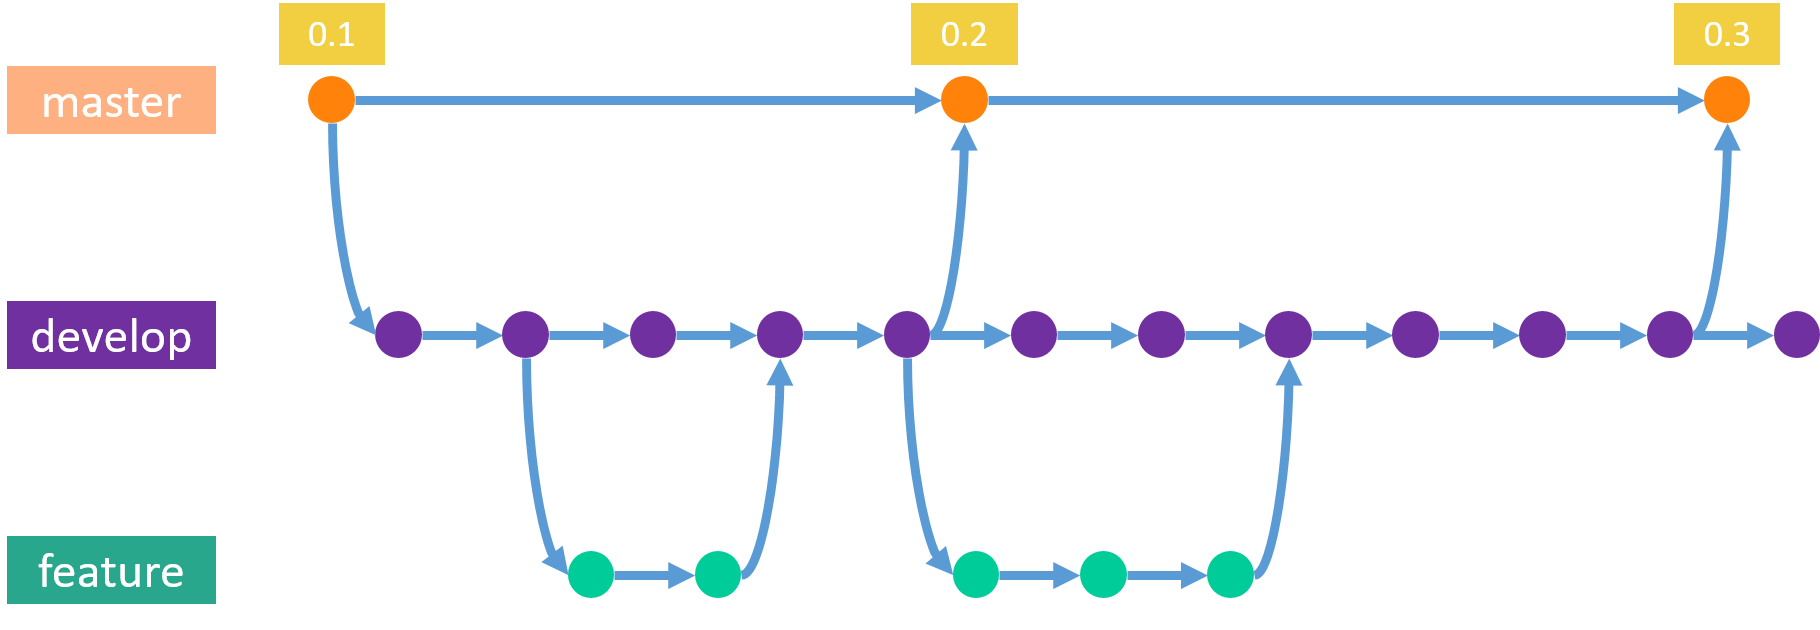
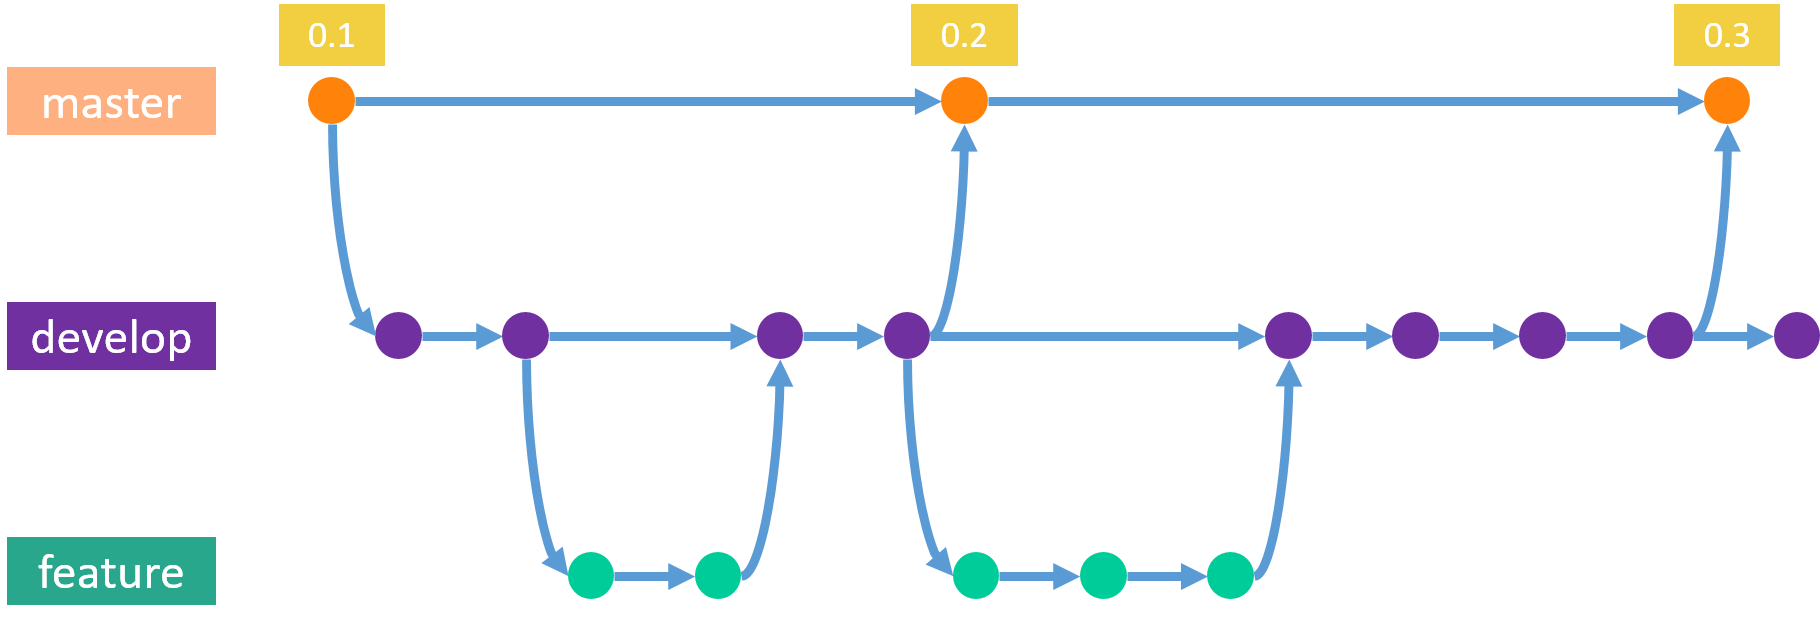
some minor corrections

diff --git a/presentation.md b/presentation.md
@@ -479,13 +479,13 @@ Tracks the history of the code on line 42 - 50 in your file. Shows you e.g. how 
 ## Comparing your branches
 
 ```
-$ git <since>..<until>
+$ git log <since>..<until>
 ```
 Allows you to show commits in a range between two _commit references_.
 
 This is especially great to compare branches:
 ```
-$ git master..feature
+$ git log master..feature
 ```
 Shows you the commits which are in the feature branch, but not in the master branch.
 
@@ -785,12 +785,11 @@ vs
 
 ]
 
-```
-$ git checkout master
-$ git merge feature
-```
-
 ???
+
+TODO: The graphic in this slide is wrong
+feature is at the wrong place
+master would get fastforwarded to E 
 
 * Let's say you wanted to merge master into feature first
   * to sync them
@@ -920,15 +919,18 @@ class: center, middle
 # Centralized Workflow
 ## A good start
 
+Git can be used similar to a centralized VCS:
 * One central repository
 * Only one development branch `master`
 * Devs clone the central repository
 * They make local commits etc.
 * Changes are rebased onto `origin/master`, then pushed
 
+To keep history linear, always pull with
 ```
 $ git pull --rebase origin master
 ```
+.addendum[You want to "add your changes to what they already did"]
 
 ---
 
@@ -937,6 +939,9 @@ $ git pull --rebase origin master
 
 .full-width[![image](img/centralized_workflow_1.png)]
 
+???
+initial state, we just cloned the central repository
+repository has only a master branch
 ---
 
 # Centralized Workflow
@@ -944,6 +949,11 @@ $ git pull --rebase origin master
 
 .full-width[![image](img/centralized_workflow_2.png)]
 
+???
+Some work was done on the master in the central repository
+We fetched those, they are reflected on origin/master
+
+meanwhile, we also did some local work ourselves
 ---
 
 # Centralized Workflow
@@ -951,12 +961,20 @@ $ git pull --rebase origin master
 
 .full-width[![image](img/centralized_workflow_3.png)]
 
+???
+instead of merging into origin/master, we rebase our work on it.
+
+the last two steps can be achieved with `git pull --rebase`
+
 ---
 
 # Centralized Workflow
 ## Example
 
 .full-width[![image](img/centralized_workflow_4.png)]
+
+???
+when we push, master will be fast forwarded
 
 ---
 
@@ -999,6 +1017,10 @@ One of the most important workflows
 Feature branches can be pushed anytime
   * so you get a backup for free
   * makes it easy to share code
+
+Pull requests make code reviews convenient
+  * you can look at the feature as a whole (by diffing it to `master`)
+  * anybody, e.g. the reviewer, can merge it when done, not only the dev who created it
 
 ---
 
@@ -1108,6 +1130,8 @@ $ git merge --no-ff myFeature
 The interaction between develop and feature branches is just the feature branches workflow described before
 Note: Feature branches can also 'skip' a version, no problem
 
+The no-ff part is critizised by some, rebasing is an alternative
+
 ---
 
 # GitFlow
@@ -1170,8 +1194,8 @@ On a developer level .addendum[(the Open Source approach)]
 
 On a supplier level
   * Project team works on the official repository
-  * Suppliers have their forks,no write-access to offical repository
-  * Project team pulls work from Suppliers after reviewing them
+  * Suppliers have their forks, no write-access to offical repository
+  * Project team pulls work from suppliers after reviewing them
 
 .fixed-height-300.center[![image](img/forking_workflow.png)]
 
@@ -1189,7 +1213,7 @@ Git allows for a variety of Workflows
 
 There is no one-size-fits-all
 
-Think about what fits your team and project
+Think about what fits _your_ team and project
 
 ---
 
